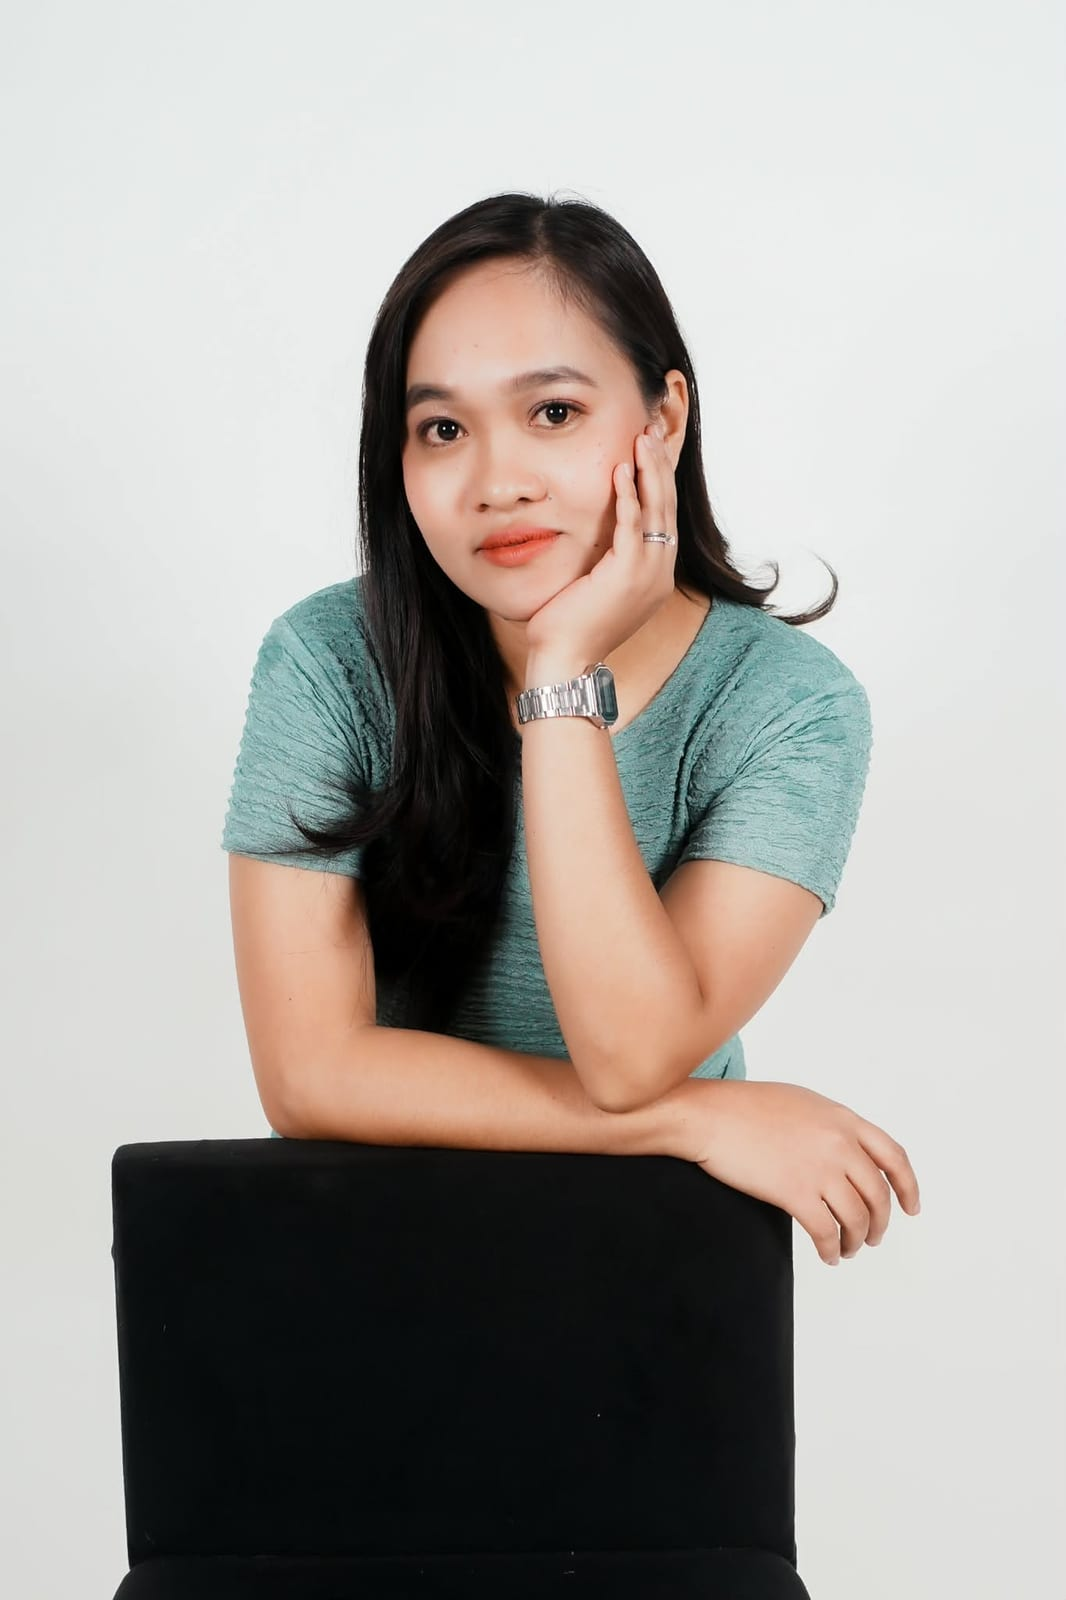
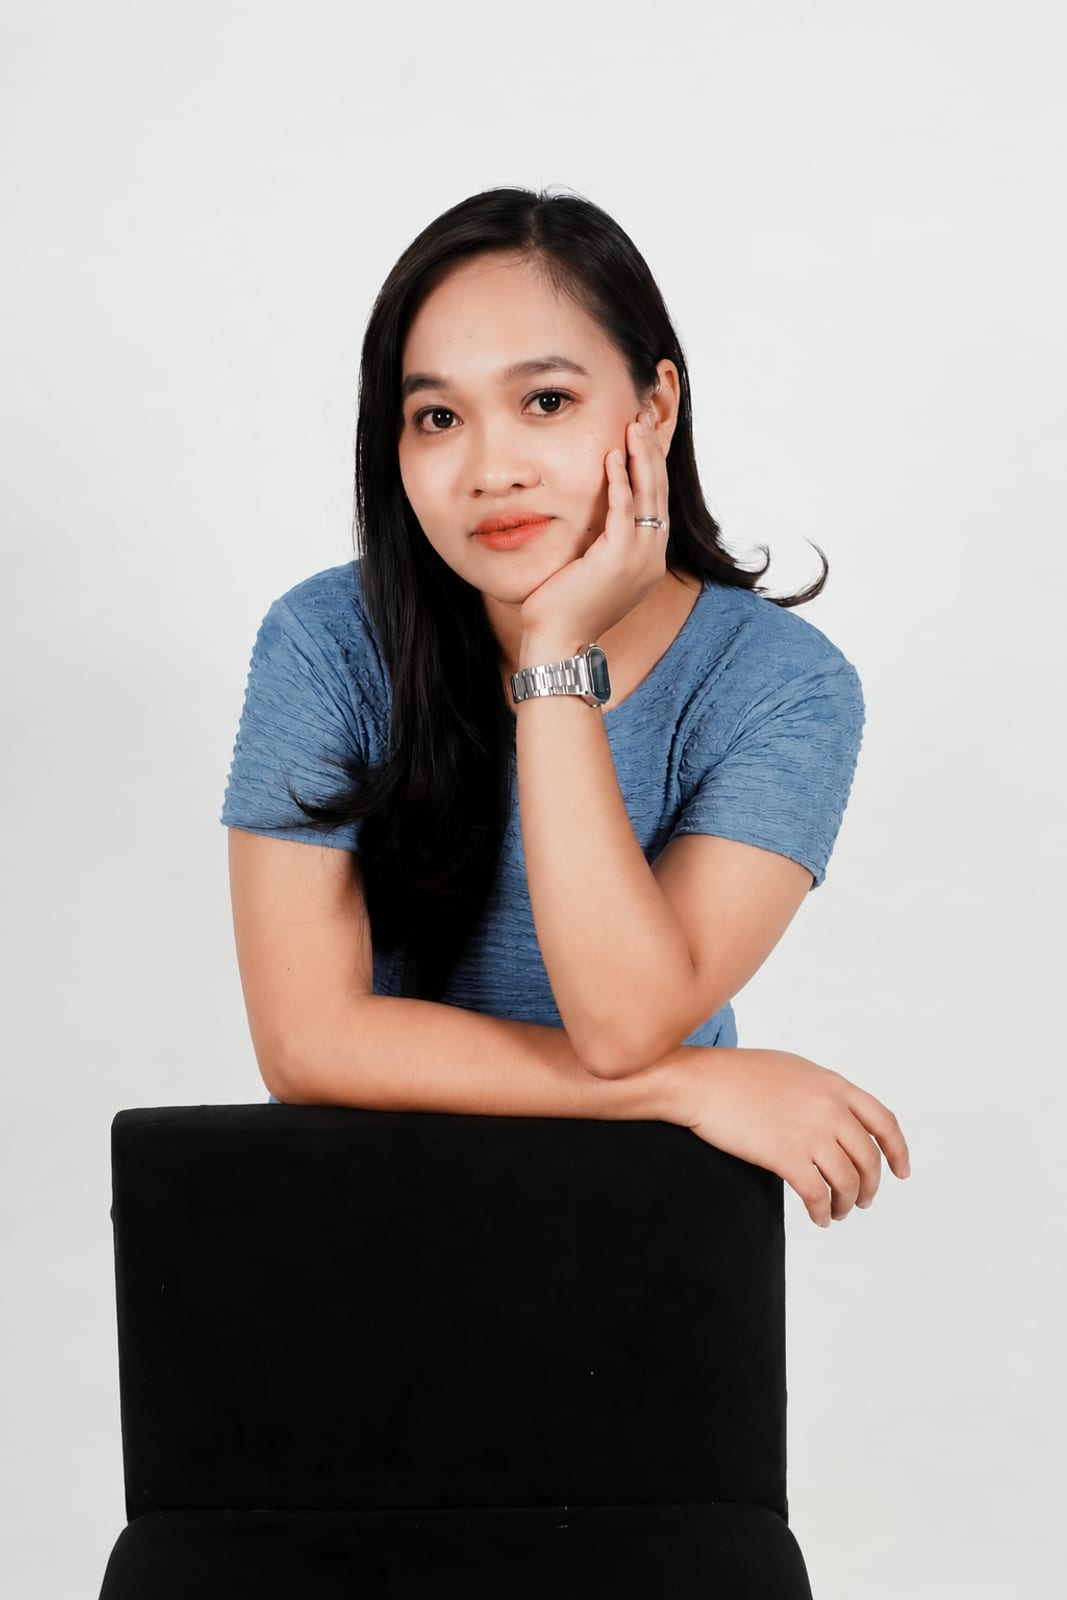
HD attire figures, recoloured portraits, docs for the night's QA pass
The four dress code figures are now high-resolution redraws in the guides'
own style (principal sponsors, best man, bridesmaids, groomsmen), replacing
the blurred crops. The four solo studio portraits are recoloured into the
wedding blues to match the couple shots. The mobile menu drops its mounted
flag (open starts false, so the portal never renders on the server). User
manual and developer handoff record the hero decision, the photo folders,
the sponsors row, the menu fix and its rule.

Changed region(s): [[0.0929, 0.0938, 0.8668, 0.9688], [0.0929, 0.9375, 0.1238, 1.0], [0.743, 0.9688, 0.7739, 1.0]]

diff --git a/lib/constants.ts b/lib/constants.ts
@@ -140,8 +140,9 @@ export const OFFICIANT = {
    read off the three attire guides they sent on 17 September 2026 (Best
    Man; Bridesmaids and Groomsmen; Principal Sponsors), garment by garment,
    so a guest knows the cut and not only the shade. Roles with no guide say
-   only what is known. The figure is the guide's own illustration, cropped;
-   an empty figure means the guide has not been sent yet.
+   only what is known. The figures are HD redraws of the guides' illustrations (ChatGPT,
+   17 September 2026, masters in the sibling photos folder under
+   attire-hd); an empty figure means the guide has not been sent yet.
    ========================= */
 
 export type DressRole = {
@@ -168,7 +169,7 @@ export const DRESS_CODE: DressRole[] = [
     colour: "Earth tones: taupe, mocha, blush, champagne",
     outfit:
       "Ninangs: a floor-length gown in taupe, mocha, blush or champagne, with lace or flutter sleeves and a small clutch, as on the guide. Ninongs: a Barong Tagalog with black trousers and black shoes.",
-    figure: "",
+    figure: "/photos/attire-principal-sponsors.jpg",
     swatch: ["#9A8577", "#A89484", "#D9C6BC", "#EAE0CC"],
   },
   {

diff --git a/components/layout/MobileNav.tsx b/components/layout/MobileNav.tsx
@@ -20,16 +20,14 @@ import { cn } from "@/lib/utils";
  * became the containing block for the panel's own `position: fixed`, so
  * `inset-0` meant the header's 4.5rem box and the menu opened invisibly.
  * A portal keeps the panel out of every ancestor's stacking and containing
- * context for good.
+ * context for good. No mounted flag is needed: open starts false, so the
+ * server never renders the portal and document is always there when it does.
  */
 export function MobileNav() {
   const pathname = usePathname();
   const [open, setOpen] = useState(false);
-  const [mounted, setMounted] = useState(false);
   const triggerRef = useRef<HTMLButtonElement>(null);
   const panelRef = useRef<HTMLDivElement>(null);
-
-  useEffect(() => setMounted(true), []);
 
   const close = useCallback(() => {
     setOpen(false);
@@ -94,7 +92,7 @@ export function MobileNav() {
         <span className="sr-only">Open menu</span>
       </button>
 
-      {open && mounted
+      {open
         ? createPortal(
             <div className="fixed inset-0 z-50 lg:hidden">
               <button

diff --git a/docs/DEVELOPER-HANDOFF.md b/docs/DEVELOPER-HANDOFF.md
@@ -638,6 +638,68 @@ quality 82) are in `public/photos`; the masters are in the sibling folder
   left, the existing type card on the right. Composed with sharp from the
   previous card, so no font rendering was needed.
 - `HERO_PHOTO` in constants is gone; the site document owns the photographs.
+
+**Later the same night, second round.** The client rejected the side-by-side
+hero ("hindi bagay"), sent seven more photographs (two studio portraits
+each, one candid each, a taller Christmas-tree copy) and a third attire
+guide (principal sponsors), and asked for the actual outfits as pictures,
+in HD, with every photograph used.
+
+- **Hero, third and final layout.** Full-width photograph, `80vh` capped at
+  `56rem`, pulled up under the transparent header (`-mt-[4.5rem]`),
+  `object-[50%_30%]` so the faces stay in the clear upper part, the names
+  and date low over `bg-veil` (a tailwind `backgroundImage` token: clear
+  to 38 percent, ink 78 percent at the foot). The practical block (ceremony
+  time, intro, two CTAs, countdown, hashtag) sits beneath on paper. This is
+  what the well-liked wedding sites do; the two earlier attempts are
+  recorded in the Hero's own comment so they are not repeated.
+- **Page header photographs.** `PageHeader` takes `photos?: StoryPhoto[]`:
+  one is a wide band (`3:2`, `21:9` from `lg`), two are a `4:5` pair.
+  Details, Programme, Entourage, Guestbook and RSVP each carry a
+  `headerPhotos` list in the site document, editable per page.
+- **Our Story.** `ourStory.pair` (one portrait of each) renders as "The two
+  of them" above the favourites grid, which now holds the four candids.
+- **Photograph files.** Web copies in `public/photos` (all under the 300 KB
+  QA budget; the elephants photograph needed quality 76 at 1400 px).
+  Masters beside the repo in `28. CARLOobNgdiyoskayKRISTINNE - photos/`:
+  `originals/` (as sent, renamed `*-original.jpg`), `edited/` (ChatGPT
+  results), `attire-guides/` (the guides as sent), `attire-hd/` (the HD
+  figures). `carlo-kristinne-school-christmas-tall` is a duplicate crop and
+  is in `public/photos` but not placed anywhere.
+- **Dress code figures.** `DressRole.figure` points at an HD illustration
+  generated in ChatGPT from the guides' own style (faceless figures, white
+  background, the hex values of the attire palette in the prompt). Four
+  exist: principal sponsors, best man, bridesmaids, groomsmen. The maid of
+  honour, the couple and the guests have none; those cards show the swatch.
+  The sponsors' guide image could not be saved as a file (a mid-turn
+  attachment never reaches the transcript), so `attire-guides/` holds only
+  the first two guides; the HD figure was drawn from the description.
+- **Principal sponsors row.** New in `DRESS_CODE`, from the third guide:
+  gowns in taupe, mocha, blush or champagne with lace or flutter sleeves and
+  a clutch; Barong Tagalog with black trousers for the men. Swatch stops
+  are the guide's five earth tones. `DressCode.tsx` now merges by role: the
+  saved document's words win for a known role, and a role in code that the
+  saved document lacks is appended in code order, so this row reached the
+  live site without a re-save. A row the couple add themselves still shows.
+- **Portrait recolours.** The four solo studio portraits were in the
+  original light blue and sage. Each was re-edited in ChatGPT (upload,
+  "change only the shirt colour", faces untouched) to dark steel blue for
+  Carlo and dusty blue for Kristinne, to match the couple shots.
+
+### The mobile menu (17 September 2026, night)
+
+Reported by the client: on a phone, once the page was scrolled even a
+little, the menu button "did nothing". Cause: the header gained
+`backdrop-blur-xl` on scroll, and a backdrop filter makes an element the
+containing block for its `position: fixed` descendants. The menu panel was
+a fixed child of the header, so its `inset-0` became the header's 4.5rem
+box: the menu opened, 68 px tall, behind the bar. Measured with
+`getBoundingClientRect` before and after. Fix: the panel is portalled to
+`document.body` (`createPortal`, after mount), and the header blur is
+gone in favour of `bg-brand-paper/95` with `transition-colors`, since iOS
+Safari also mishandles fixed elements with backdrop filters. Rule going
+forward: nothing `fixed` lives inside anything with a transform, filter or
+backdrop filter.
 - A saved site document carried an empty `home.heroPhoto` from before the
   photographs existed, because a page save snapshots the whole document and
   stored scalars win. The hero now falls back to the default photograph when

diff --git a/docs/USER-MANUAL.md b/docs/USER-MANUAL.md
@@ -179,19 +179,30 @@ are typed one per line as `Name | Role | Note`; the note is optional.
 **The dress code.** Each row has three parts: who, the colour, and the
 outfit. The outfit is the actual clothes as drawn on your attire guides (a
 three-piece suit, a floor-length gown, a black suit with a blue tie), so a
-guest knows the cut and not only the shade. The rows for the best man, the
-bridesmaids and the groomsmen were read off the two guides you sent. The maid
-of honour's row says only "a floor-length gown in dusty blue" because there
-is no guide for her yet; edit it once there is.
+guest knows the cut and not only the shade. The rows for the principal
+sponsors, the best man, the bridesmaids and the groomsmen were read off the
+three guides you sent. The maid of honour's row says only "a floor-length
+gown in dusty blue" because there is no guide for her yet; edit it once
+there is.
 
-**Photographs on the pages.** The five photographs you sent are on the site:
-the beach one beside your names on the Home page, the other four under
-"A few of their favourites" on Our Story, each with a short caption you can
+**Photographs on the pages.** All twelve photographs you sent are on the
+site. The beach one is the big picture at the top of the Home page and on
+the RSVP page. Every other page opens with a photograph under its heading
+(Details, Programme, Guestbook) or a pair (Entourage: one of each of you).
+Our Story has "The two of them" (your two studio portraits, recoloured into
+the wedding blues) and "A few of their favourites" (the waterfall, the
+elephants, the ring, the Christmas tree), each with a short caption you can
 change. To swap the Home photograph, upload a new one from the Home form
-(landscape, under 12 MB). To change an Our Story photograph, paste the
-address of a published album photograph into its row. Guests' album
-photographs still come in through the Gallery page and are approved under
-Photographs.
+(landscape, under 12 MB). To change any other photograph, paste the address
+of a published album photograph into its row under Edit the website. Guests'
+album photographs still come in through the Gallery page and are approved
+under Photographs.
+
+**The dress code pictures.** Each dress code card shows an illustration of
+the outfit in the same style as your attire guides, drawn in high
+resolution from those guides. The principal sponsors have their own card
+from the third guide (earth-tone gowns, Barong Tagalog). The pictures are
+part of the design and need Erick to change; the words are yours to edit.
 
 Three things stay in code on purpose and need Erick: the wedding date (it
 drives the countdown and the calendar), the guest cap of 100 and the RSVP
